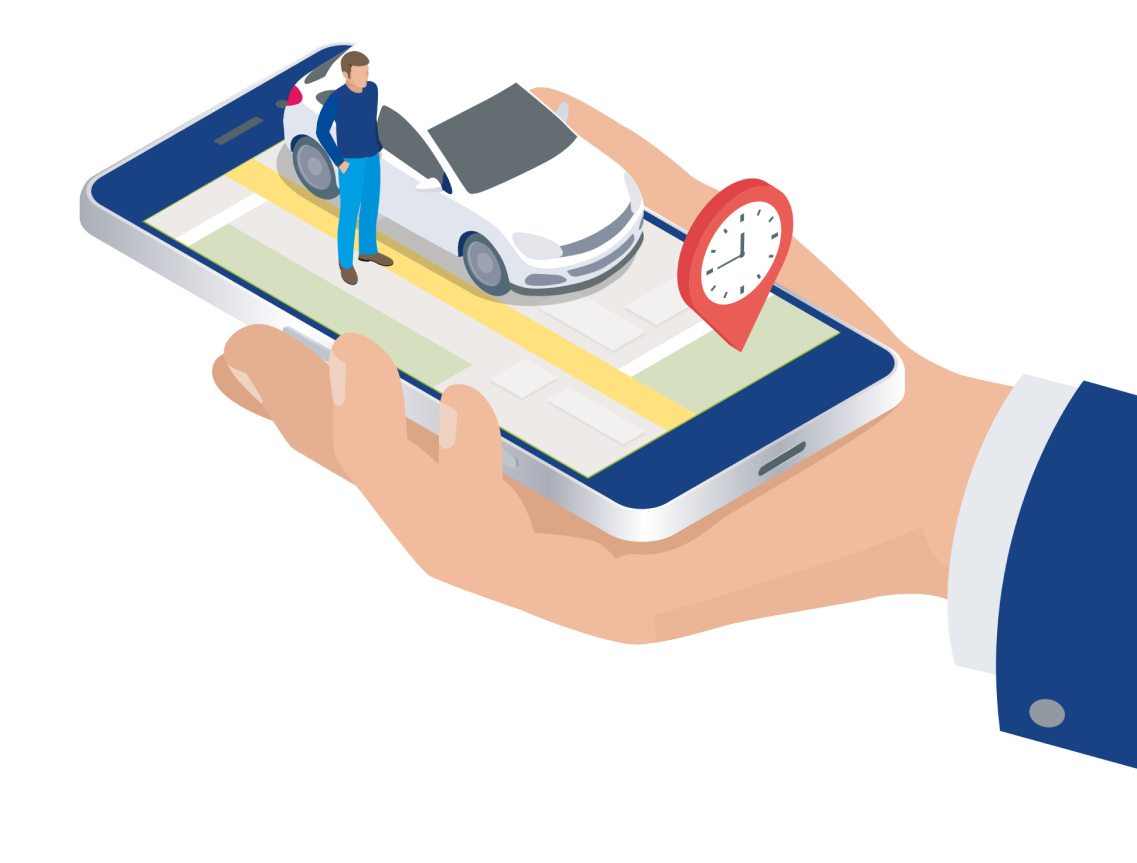
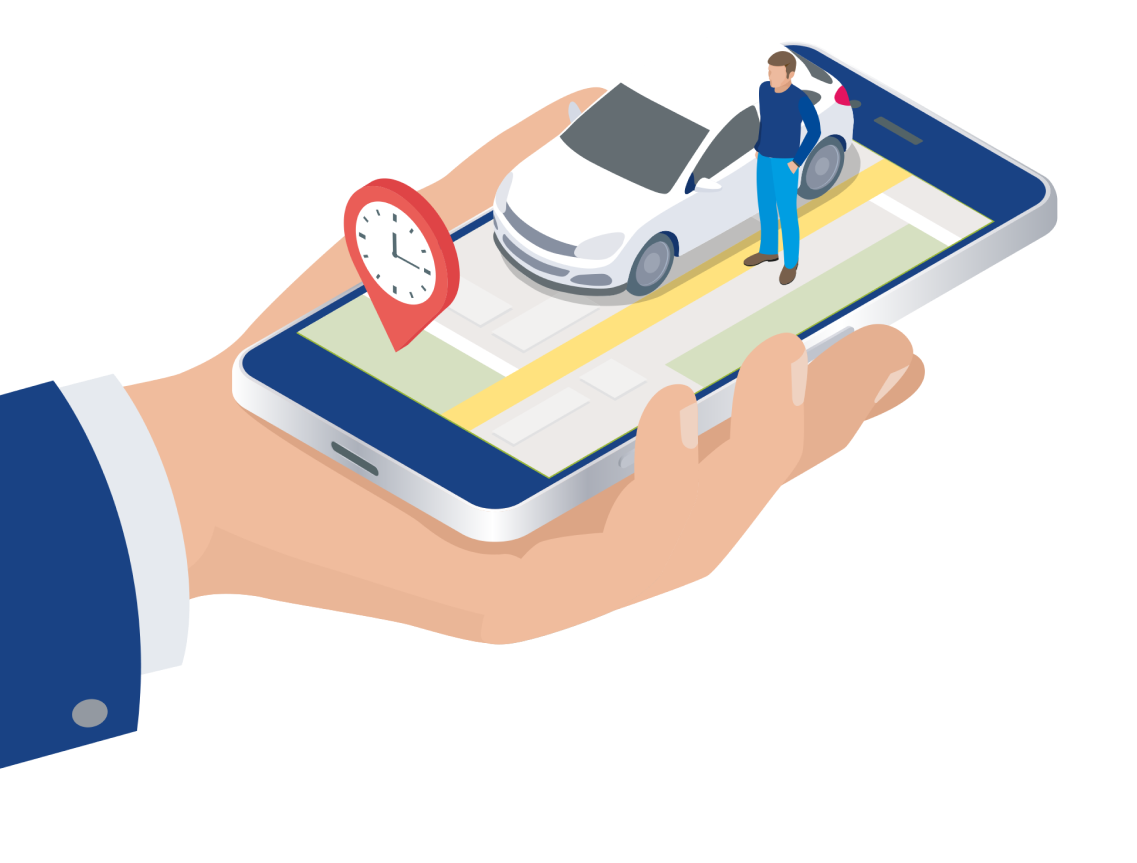
Fixed PR comments

diff --git a/pages/login.vue b/pages/login.vue
@@ -24,7 +24,7 @@
           required="required"
           class="input"
           type="email"
-          placeholder="Identifiant"
+          placeholder="john@doe.com"
           autofocus="autofocus"
         >
       </ec-field>
@@ -40,7 +40,7 @@
           required="required"
           class="input"
           type="password"
-          placeholder="Mot de passe"
+          placeholder=""
         >
       </ec-field>
 

diff --git a/layouts/side-picture.vue b/layouts/side-picture.vue
@@ -40,8 +40,5 @@ export default {
     display: flex;
     align-items: center;
     overflow: hidden;
-    img {
-      transform: rotateY(180deg);
-    }
   }
 </style>
